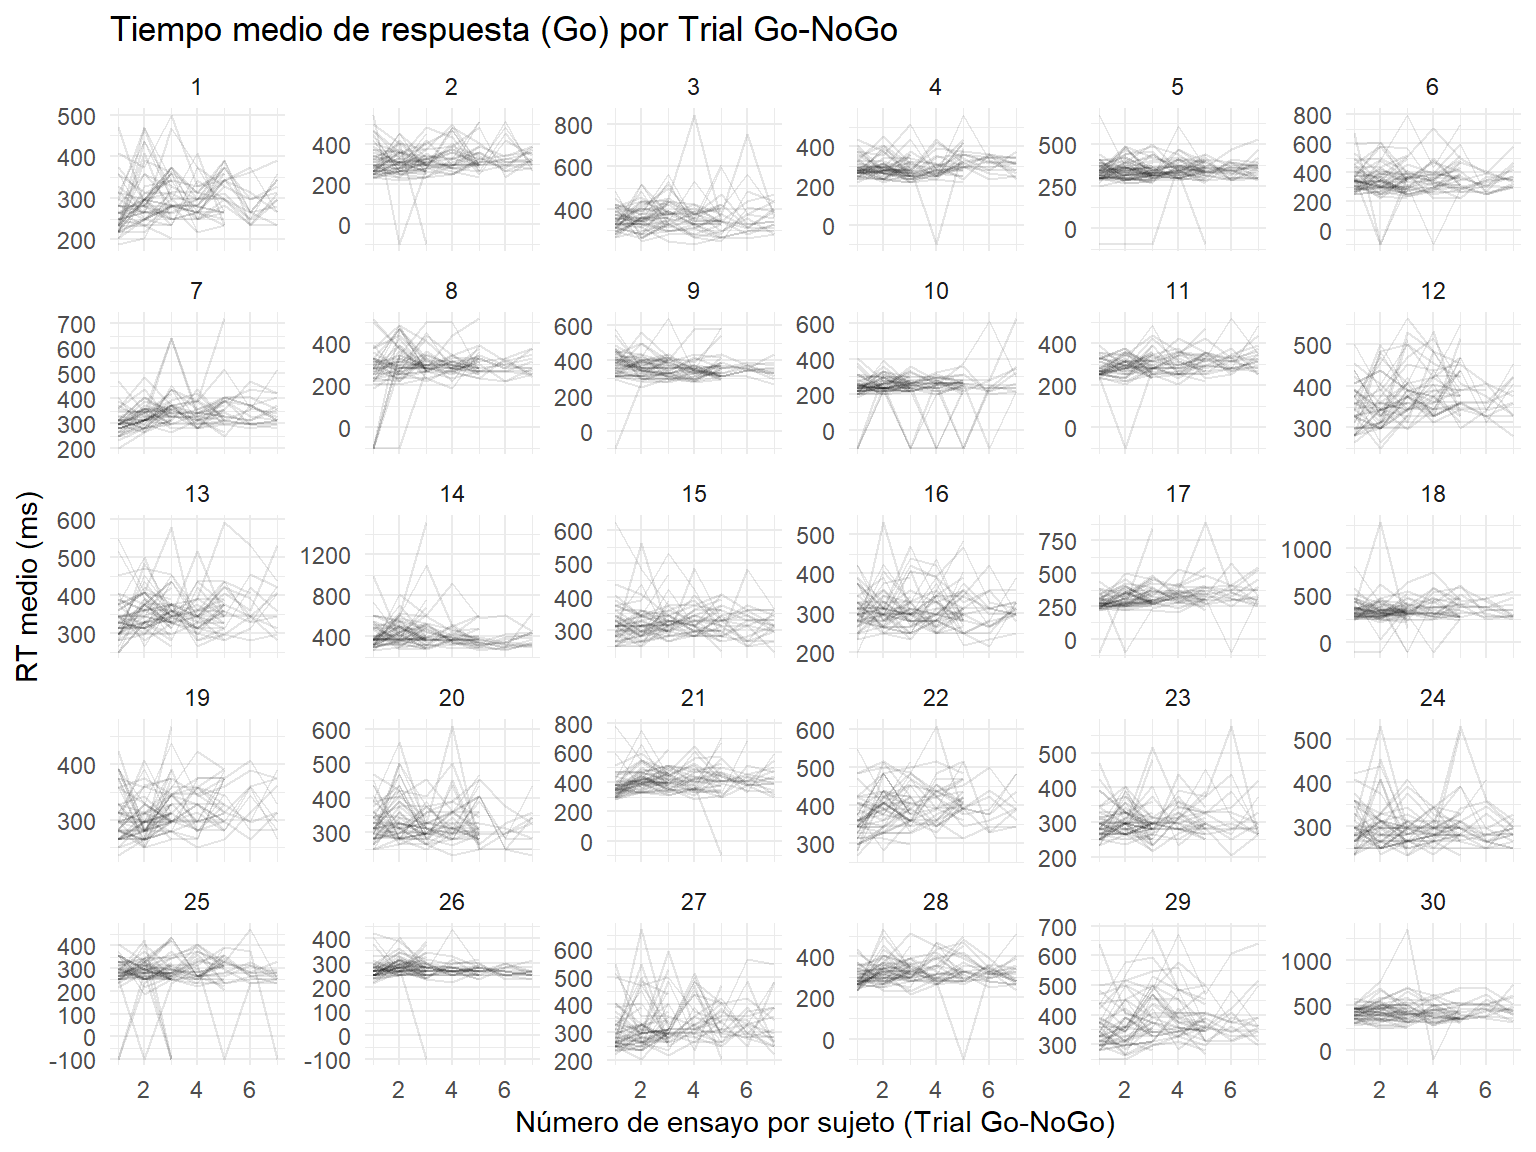
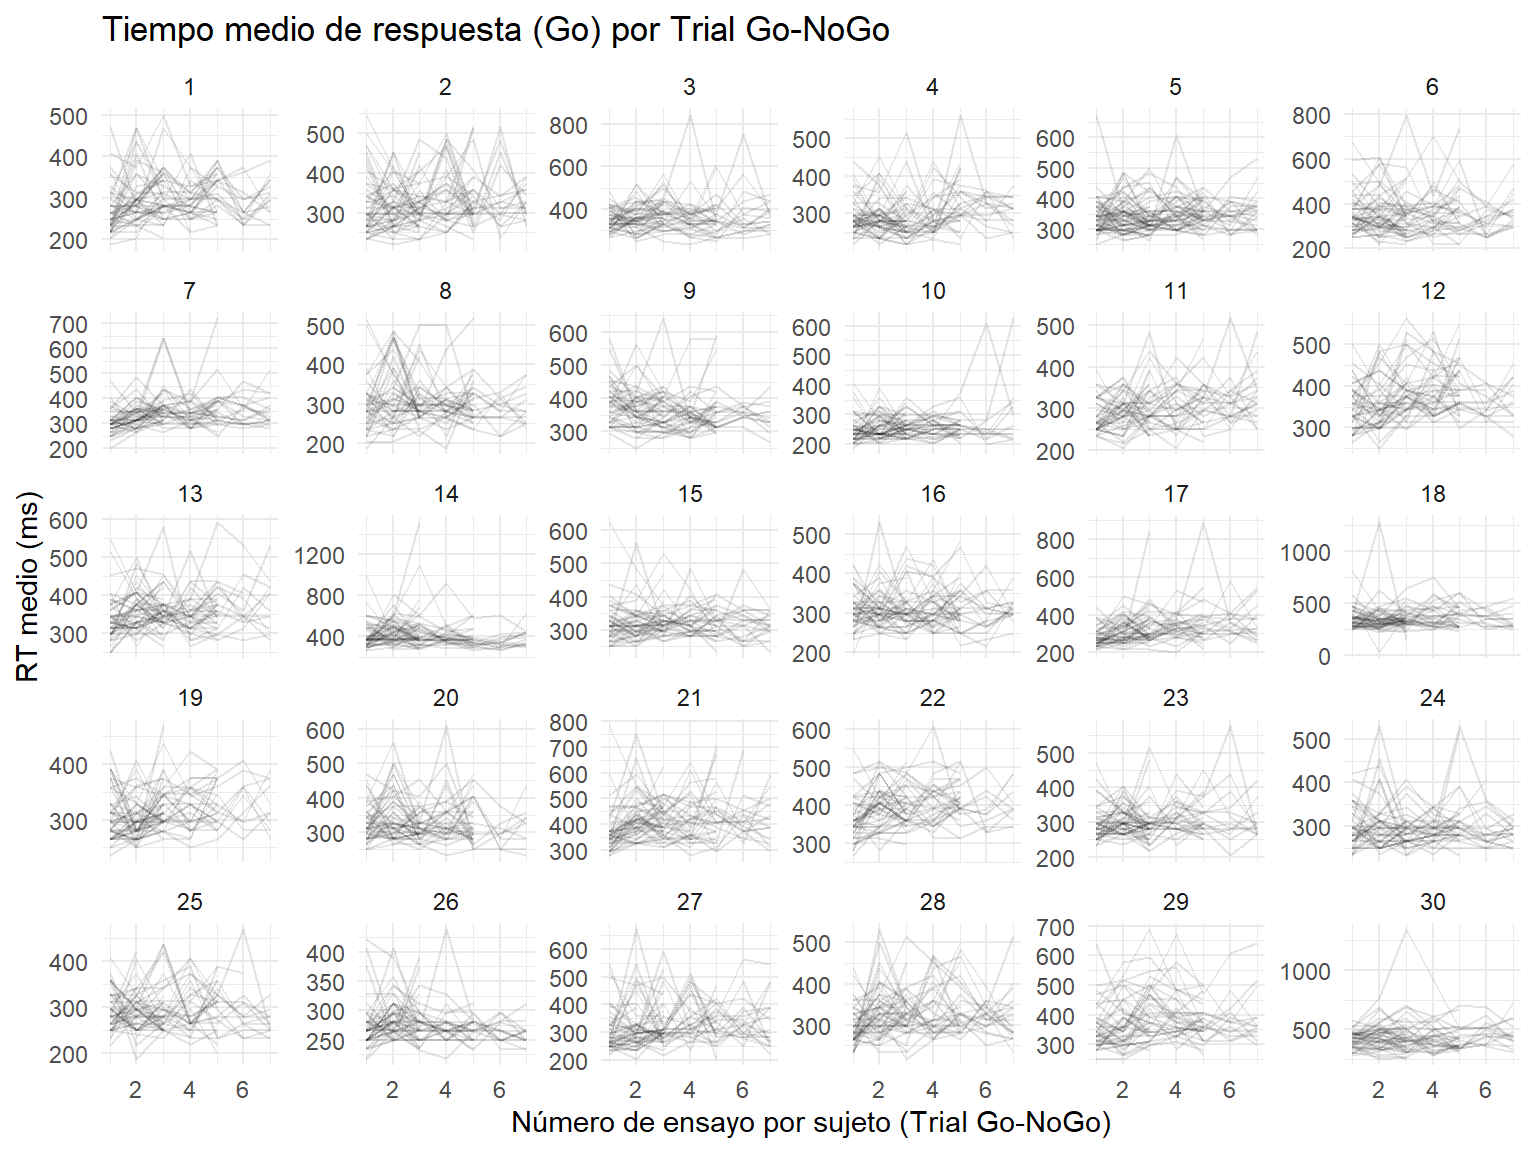
8

diff --git a/docs/Tarea1.html b/docs/Tarea1.html
@@ -374,7 +374,7 @@ pre > code.sourceCode > span > a:first-child::before { text-decoration: underlin
 <div class="cell">
 <details class="code-fold">
 <summary>Código</summary>
-<div class="sourceCode cell-code" id="cb5"><pre class="sourceCode r code-with-copy"><code class="sourceCode r"><span id="cb5-1"><a href="#cb5-1" aria-hidden="true" tabindex="-1"></a><span class="fu">ggplot</span>(data <span class="sc">%&gt;%</span> <span class="fu">filter</span>(est_label <span class="sc">==</span> <span class="st">"Go"</span>),</span>
+<div class="sourceCode cell-code" id="cb5"><pre class="sourceCode r code-with-copy"><code class="sourceCode r"><span id="cb5-1"><a href="#cb5-1" aria-hidden="true" tabindex="-1"></a><span class="fu">ggplot</span>(data <span class="sc">%&gt;%</span> <span class="fu">filter</span>(est_label <span class="sc">==</span> <span class="st">"Go"</span> <span class="sc">&amp;</span> rt <span class="sc">&gt;</span> <span class="dv">0</span>),</span>
 <span id="cb5-2"><a href="#cb5-2" aria-hidden="true" tabindex="-1"></a>       <span class="fu">aes</span>(<span class="at">x =</span> <span class="fu">as.integer</span>(trial_num), <span class="at">y =</span> rt)) <span class="sc">+</span></span>
 <span id="cb5-3"><a href="#cb5-3" aria-hidden="true" tabindex="-1"></a>  <span class="fu">stat_summary</span>(<span class="at">fun =</span> mean,      <span class="at">geom =</span> <span class="st">"line"</span>,  <span class="at">size =</span> <span class="fl">0.1</span>) <span class="sc">+</span></span>
 <span id="cb5-4"><a href="#cb5-4" aria-hidden="true" tabindex="-1"></a>  <span class="fu">stat_summary</span>(<span class="at">fun.data =</span> mean_cl_normal,</span>
@@ -416,7 +416,7 @@ pre > code.sourceCode > span > a:first-child::before { text-decoration: underlin
 <span id="cb6-13"><a href="#cb6-13" aria-hidden="true" tabindex="-1"></a>    <span class="at">new_trial_num =</span> <span class="fu">row_number</span>()</span>
 <span id="cb6-14"><a href="#cb6-14" aria-hidden="true" tabindex="-1"></a>  ) </span>
 <span id="cb6-15"><a href="#cb6-15" aria-hidden="true" tabindex="-1"></a></span>
-<span id="cb6-16"><a href="#cb6-16" aria-hidden="true" tabindex="-1"></a><span class="fu">ggplot</span>(data <span class="sc">%&gt;%</span> <span class="fu">filter</span>(est_label <span class="sc">==</span> <span class="st">"Go"</span>),</span>
+<span id="cb6-16"><a href="#cb6-16" aria-hidden="true" tabindex="-1"></a><span class="fu">ggplot</span>(data <span class="sc">%&gt;%</span> <span class="fu">filter</span>(est_label <span class="sc">==</span> <span class="st">"Go"</span> <span class="sc">&amp;</span> rt <span class="sc">&gt;</span> <span class="dv">0</span>),</span>
 <span id="cb6-17"><a href="#cb6-17" aria-hidden="true" tabindex="-1"></a>       <span class="fu">aes</span>(<span class="at">x =</span> <span class="fu">as.integer</span>(new_trial_num), <span class="at">y =</span> rt)) <span class="sc">+</span></span>
 <span id="cb6-18"><a href="#cb6-18" aria-hidden="true" tabindex="-1"></a>  <span class="fu">geom_line</span>(<span class="fu">aes</span>(<span class="at">group =</span> <span class="fu">interaction</span>(SU,new_trial)), <span class="at">alpha =</span> <span class="fl">0.1</span>) <span class="sc">+</span></span>
 <span id="cb6-19"><a href="#cb6-19" aria-hidden="true" tabindex="-1"></a>  <span class="fu">labs</span>(</span>
@@ -436,7 +436,7 @@ pre > code.sourceCode > span > a:first-child::before { text-decoration: underlin
 </div>
 <details class="code-fold">
 <summary>Código</summary>
-<div class="sourceCode cell-code" id="cb7"><pre class="sourceCode r code-with-copy"><code class="sourceCode r"><span id="cb7-1"><a href="#cb7-1" aria-hidden="true" tabindex="-1"></a><span class="fu">ggplot</span>(data <span class="sc">%&gt;%</span> <span class="fu">filter</span>(est_label <span class="sc">==</span> <span class="st">"Go"</span>),</span>
+<div class="sourceCode cell-code" id="cb7"><pre class="sourceCode r code-with-copy"><code class="sourceCode r"><span id="cb7-1"><a href="#cb7-1" aria-hidden="true" tabindex="-1"></a><span class="fu">ggplot</span>(data <span class="sc">%&gt;%</span> <span class="fu">filter</span>(est_label <span class="sc">==</span> <span class="st">"Go"</span> <span class="sc">&amp;</span> rt <span class="sc">&gt;</span> <span class="dv">0</span>),</span>
 <span id="cb7-2"><a href="#cb7-2" aria-hidden="true" tabindex="-1"></a>       <span class="fu">aes</span>(<span class="at">x =</span> <span class="fu">as.integer</span>(new_trial_num), <span class="at">y =</span> rt)) <span class="sc">+</span></span>
 <span id="cb7-3"><a href="#cb7-3" aria-hidden="true" tabindex="-1"></a>  <span class="fu">geom_line</span>(<span class="fu">aes</span>(<span class="at">group =</span> <span class="fu">interaction</span>(SU,new_trial)), <span class="at">alpha =</span> <span class="fl">0.1</span>) <span class="sc">+</span></span>
 <span id="cb7-4"><a href="#cb7-4" aria-hidden="true" tabindex="-1"></a>  <span class="fu">geom_smooth</span>(<span class="fu">aes</span>(<span class="at">group =</span> SU),<span class="at">method =</span> <span class="st">"lm"</span>, <span class="at">se =</span> <span class="cn">FALSE</span>, <span class="at">color =</span> <span class="st">"blue"</span>, <span class="at">alpha =</span><span class="fl">0.5</span>) <span class="sc">+</span></span>
